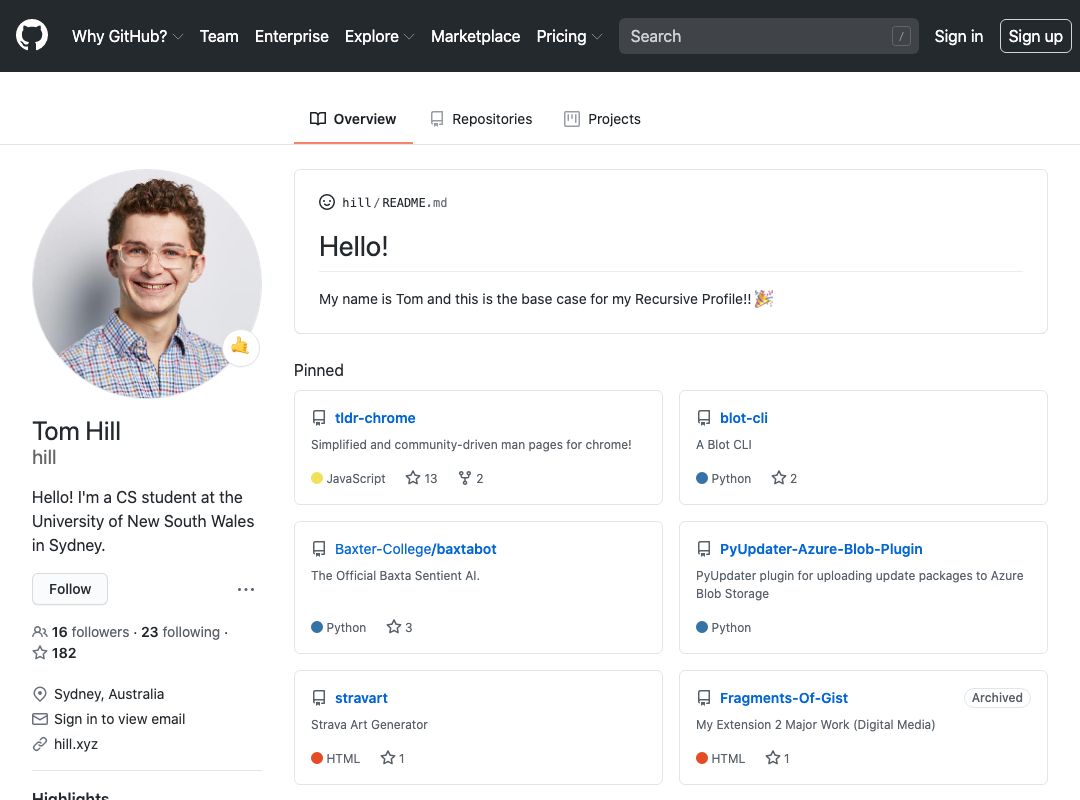
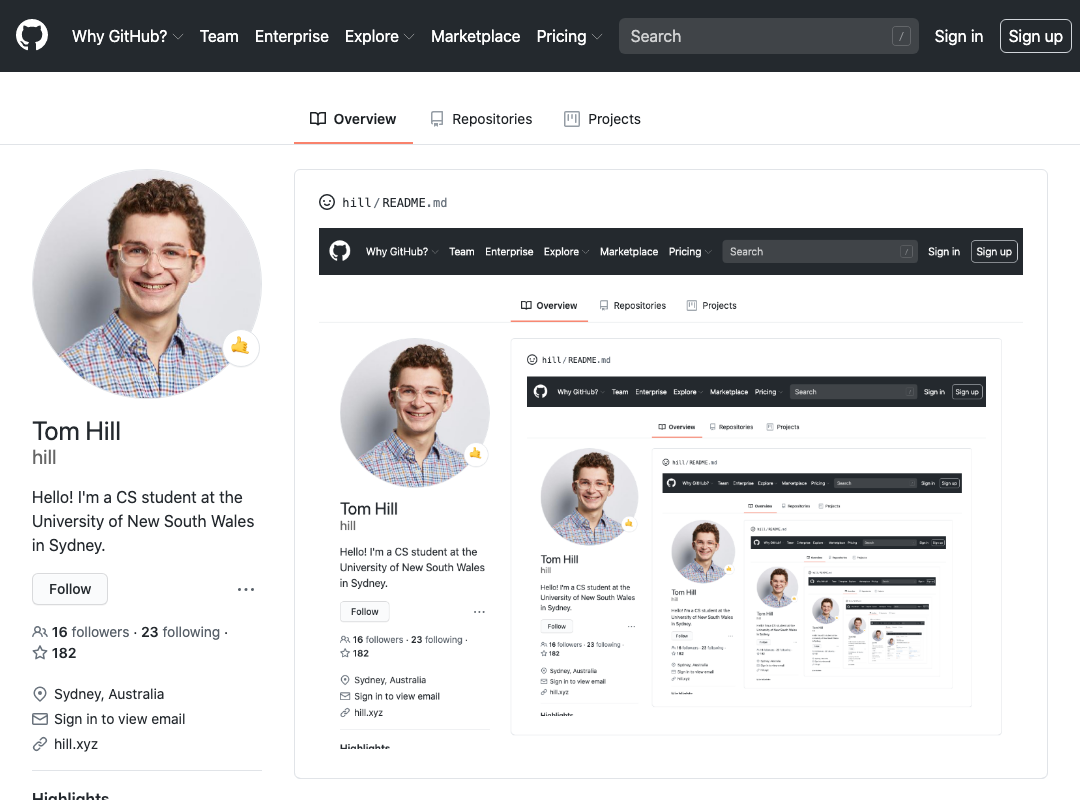
"adds new screenshot at depth 8"

diff --git a/README.md b/README.md
@@ -1,1 +1,1 @@
-![Woah!](https://github.com/hill/hill/blob/master/screenshot-9.png)
+![Woah!](https://github.com/hill/hill/blob/master/screenshot-8.png)
